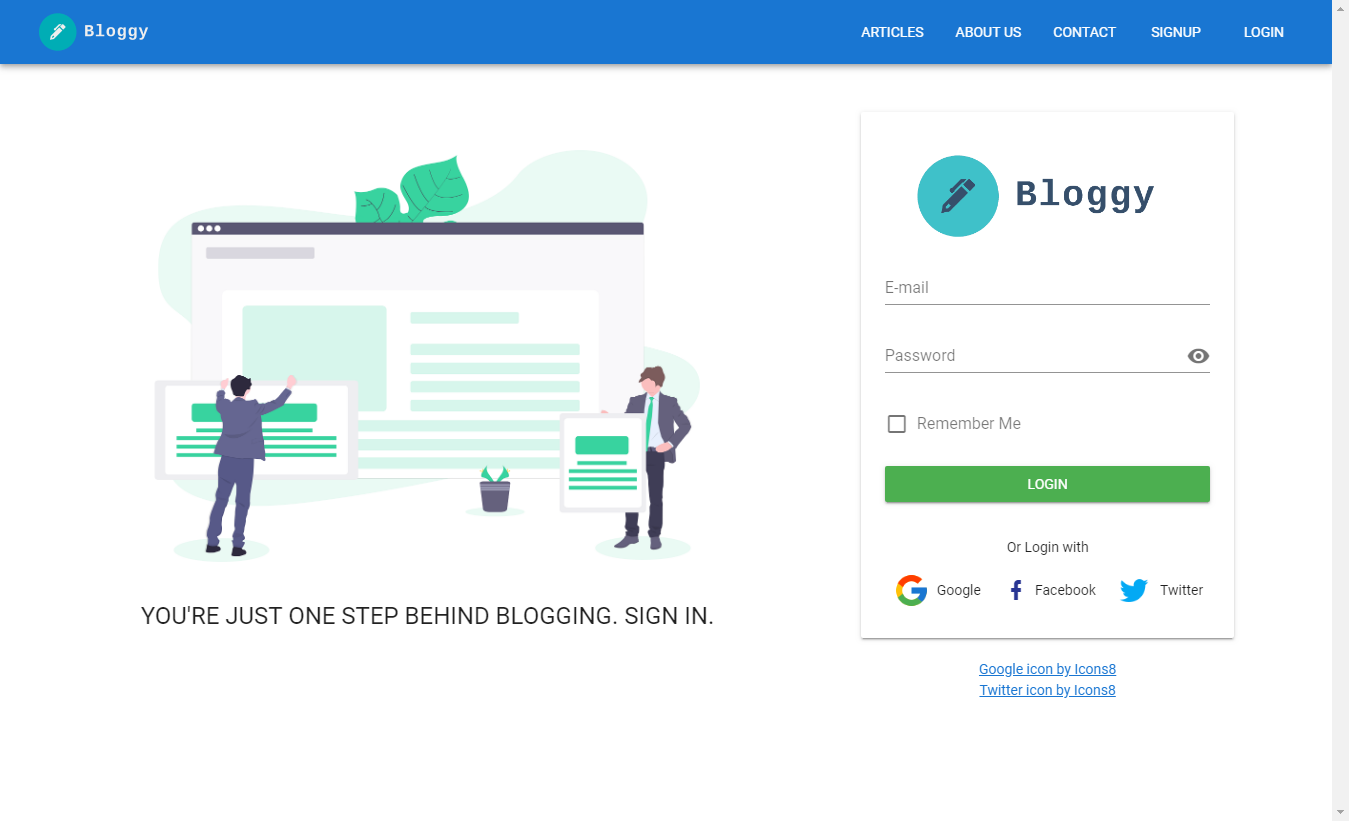
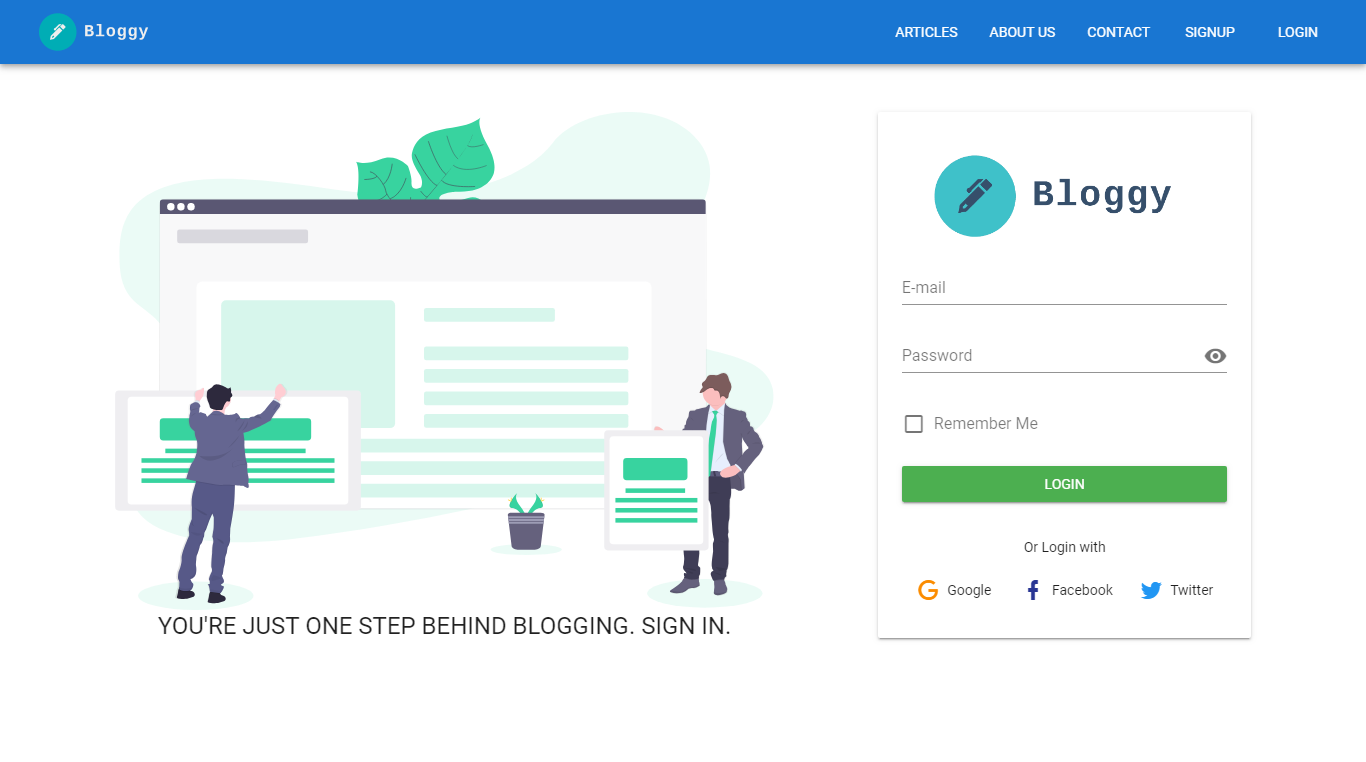
Updated Readme and Screenshots.

diff --git a/readme.md b/readme.md
@@ -3,8 +3,11 @@
 ![Bloggy Logo](public/images/logos/2/facebook_cover_photo_1.png)
 
 ## Content:
-- [About.](#about)
-- [Screenshots.](#screenshots)
+- [About.](#about)  
+- [Acknowledgments.](#acknowledgments)  
+- [Screenshots.](#screenshots)  
+  - [Light Theme](#light-theme)  
+  - [Dark Theme](#dark-theme)  
 - [How to build.](#how-to-build)
   - [Using Docker.](#how-to-build-docker)
   - [Without using Docker.](#how-to-build-without-docker)
@@ -15,23 +18,25 @@
 ## <a id="about"></a> About.
 An example blog I made using Vue, Vue Router and Vuex.
 
+## <a id="acknowledgments"></a> Acknowledgments.
+- Thanks to [Katerina Limpitsouni](https://twitter.com/ninalimpi) for all the awesome illustrations. Be sure to check them out: [Undraw - Illustrations](https://undraw.co/illustrations).  
+
 ## <a id="screenshots"></a> Screenshots.
-- ### Desktop.
+- ###  <a id="light-theme"></a> Light Theme.
 ![About - Bloggy Screenshot](/screenshots/about.png "About")  
 ![Articles - Bloggy Screenshot](/screenshots/articles.png "Articles")  
 ![Contact - Bloggy Screenshot](/screenshots/contact.png "Contact")  
-![Signup - Bloggy Screenshot](/screenshots/signup_1.png "Signup - Fist Form")  
-![Signup - Bloggy Screenshot](/screenshots/signup_3.png "Signup - Third Form")  
-![Signup - Bloggy Screenshot](/screenshots/signup_4.png "Signup - Fourth Form")  
 ![Login - Bloggy Screenshot](/screenshots/login.png "Login Form")  
 ![Post - Bloggy Screenshot](/screenshots/post.png "Post")  
-![Editing Post - Bloggy Screenshot](/screenshots/post_edit.png "Editing Post")  
-![Sharing Post - Bloggy Screenshot](/screenshots/post_share.png "Sharing Post")  
-
-- ### Mobile.
 ![Articles in Mobile - Bloggy Screenshot](/screenshots/articles_mobile.png "Articles in Mobile")  
 ![Sidenav in Mobile - Bloggy Screenshot](/screenshots/sidenav_mobile.png "Sidenav in Mobile")  
-![Login in Mobile - Bloggy Screenshot](/screenshots/login_mobile.png "Login in Mobile")  
+
+- ###  <a id="dark-theme"></a> Dark Theme.
+![About - Bloggy Screenshot (Dark)](/screenshots/about-dark.png "About (Dark)")  
+![Articles - Bloggy Screenshot (Dark)](/screenshots/articles-dark.png "Articles (Dark)")  
+![Contact - Bloggy Screenshot (Dark)](/screenshots/contact-dark.png "Contact (Dark)")  
+![Login - Bloggy Screenshot (Dark)](/screenshots/login-dark.png "Login Form (Dark)")  
+![Post - Bloggy Screenshot (Dark)](/screenshots/post-dark.png "Post (Dark)")  
 
 ## <a id="how-to-build"></a> How to build.
 
@@ -47,7 +52,7 @@ Check that the container is running in the background with:
 ```bash
 docker ps
 ```
-Go to ```<your_container_address>:8080```.
+Go to `<your_container_address>:8080`.
 
 ### <a id="how-to-build-without-docker"></a> Without using Docker.  
 To install dependencies run:
@@ -66,7 +71,7 @@ Or, if you prefer, run the application in development mode:
 ```bash
 npm run start:dev
 ```
-Go to ```localhost:8080```.
+Go to `localhost:8080`.
 
 ## <a id="testing"></a> Testing.
 Just run: 
